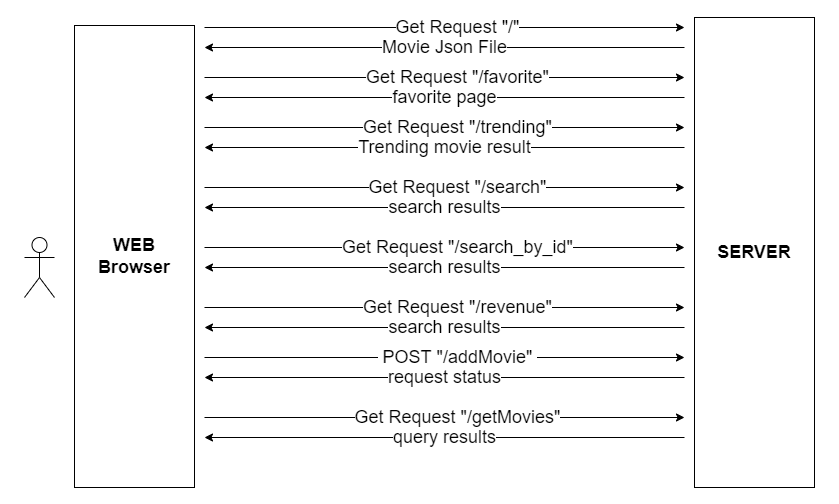
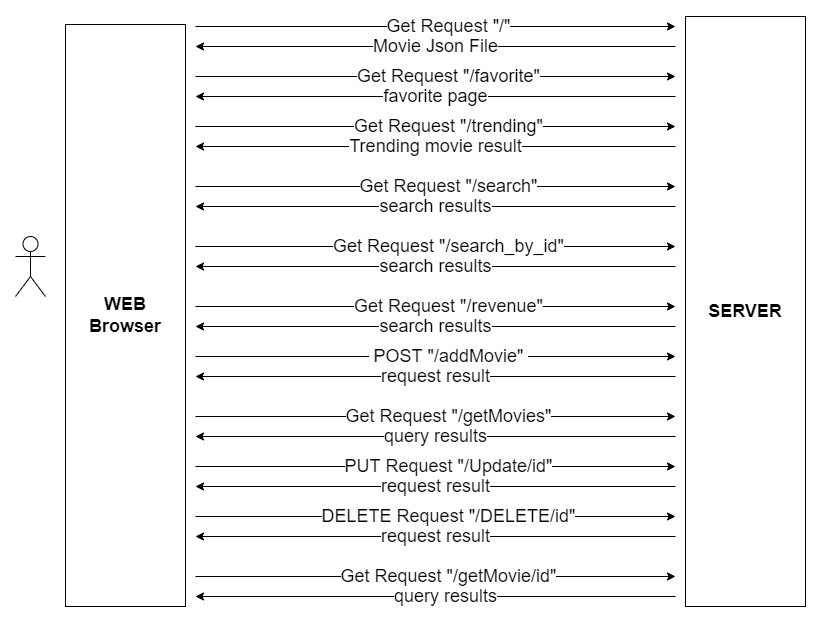
===TASK14=== - Added UPDATE/id route - Added DELETE/id route - Added getMovie/id route

Changed region(s): [[0.0305, 0.0298, 0.9744, 0.9821], [0.8526, 0.0, 0.9744, 0.0595]]

diff --git a/server.js b/server.js
@@ -136,6 +136,50 @@ app.get('/getMovies', (req, res) => {
 
 //==================
 
+// TASK 14
+
+app.put('/UPDATE/:id', (req, res) => {
+    console.log("/UPDATE," + req.params.id);
+    console.log("movie: " + req.body);
+    const id = req.params.id;
+    const movie = req.body;
+    const sql = `UPDATE favMovies SET comment=$1 WHERE ${id}`
+    dbClient.query(sql, [movie.comment]).then(data => {
+        return res.sendStatus(202);
+    }).catch(function (error) {
+        // handle error
+        console.log(error);
+        res.sendStatus(500).send("error while updating movie comments by id, error: " + error)
+    });
+});
+
+app.delete('/DELETE/:id', (req, res) => {
+    console.log("/DELETE," + req.params.id);
+    const id = req.params.id;
+    const sql = `DELETE FROM favMovies WHERE ${id} ;`
+    dbClient.query(sql, [movie.comment]).then(data => {
+        return res.sendStatus(202);
+    }).catch(function (error) {
+        // handle error
+        console.log(error);
+        res.sendStatus(500).send("error while deleting movie by id from database, error: " + error)
+    });
+});
+
+app.get('/getMovie/:id', (req, res) => {
+    console.log("/getMovie," + req.params.id);
+    const sql = `SELECT * FROM favMovies WHERE ${req.params.id}`;
+    dbClient.query(sql).then(data => {
+        return res.status(200).json(data.rows);
+    }).catch(function (error) {
+        // handle error
+        console.log(error);
+        res.status(500).send("error while getting movie from database by id, error: " + error)
+    });
+});
+
+//==================
+
 app.get('*', (req, res) => {
     res.status(404).send("page not found error 404");
 });

diff --git a/README.md b/README.md
@@ -26,6 +26,11 @@
 
 - Use "http://localhost:3000/getMovies" to get all movies from the database.
 
+- Send a PUT Requset to "http://localhost:3000/UPDATE/id" to update your comments with json body containing the new comments, eg: PUT:"http://localhost:3000/UPDATE/id=3", body: {"comment": "Not bad"}.
+- Send a DELETE Request to "http://localhost:3000/DELETE/id" to delete movie from database by its id. eg: DELETE:"http://localhost:3000/DELETE/id=3" to delte movie with id 3;
+
+- Use "http://localhost:3000/getMovie/id" to get a movie from database by id. eg: "http://localhost:3000/getMovie/id=3"
+
 ## Project Features
 - Sends json object with movie info
 - Shows the favorite page
